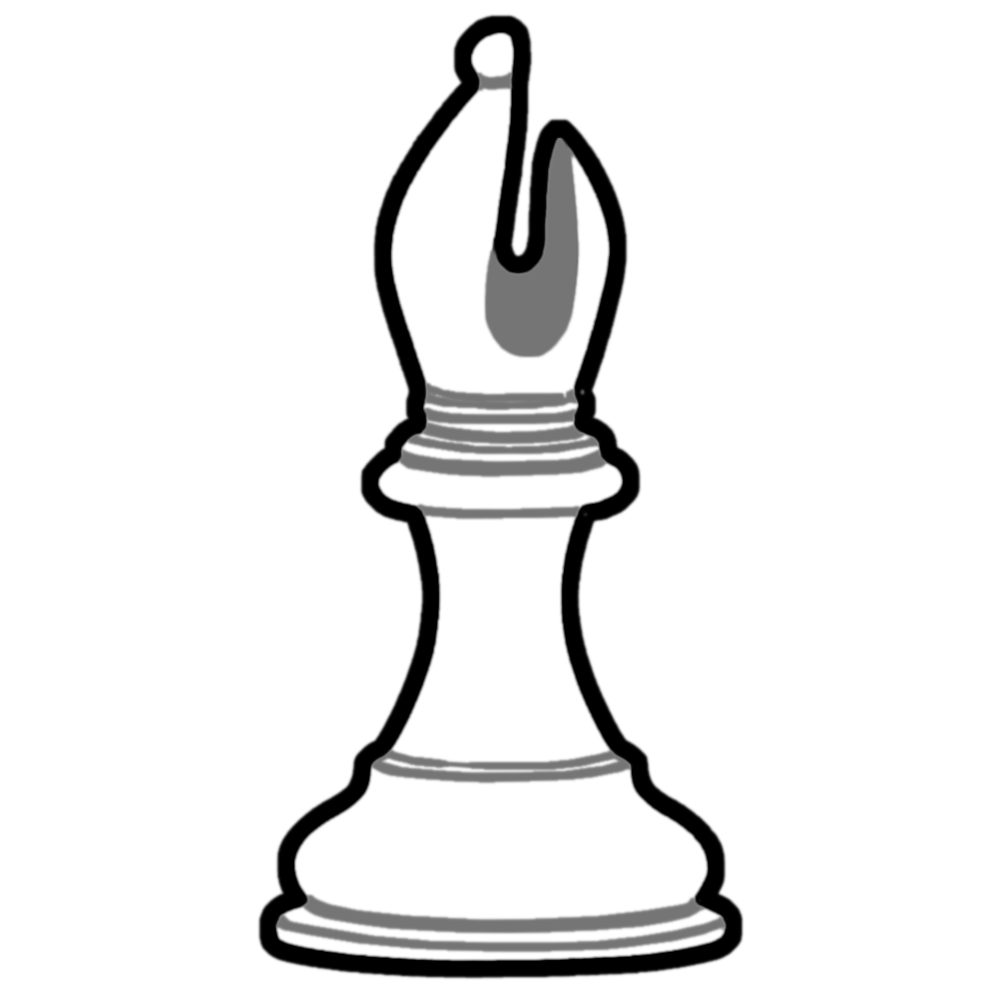
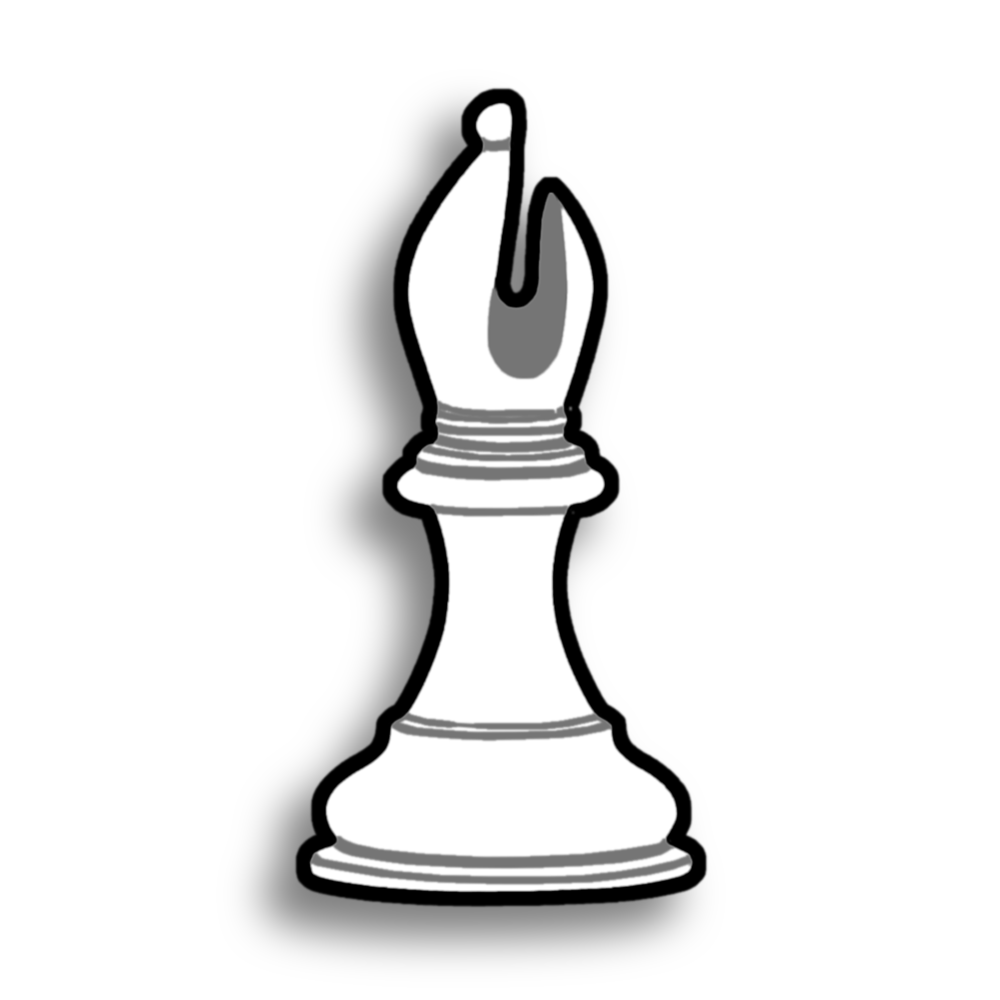
Adjust piece graphic sizes and adds drop shadows to pieces.

Changed region(s): [[0.248, 0.0, 0.744, 0.992]]

diff --git a/chess-application/mainwindow.cpp b/chess-application/mainwindow.cpp
@@ -64,7 +64,7 @@ MainWindow::~MainWindow(){
 void MainWindow::resizeEvent(QResizeEvent* event)
 {
    QMainWindow::resizeEvent(event);
-   updateCoordinateFontSize();
+   updateFontSizes();
 }
 
 void MainWindow::initiatePiecesGraphically(){
@@ -219,22 +219,14 @@ void MainWindow::initiateUIComponents(){
     _main_grid_layout->setColumnStretch(BOARD_GRID_COL, 100);
     _main_grid_layout->setRowStretch(BOARD_GRID_ROW, 100);
 
-    _info_label = new QLabel();
-    QFont f( "Arial", 15);
-    _info_label->setFont(f);
-    _info_label->setStyleSheet("color: rgb(255, 0, 0)");
-    _main_grid_layout->addWidget(_info_label, 0, 1);
+    setLeftLayout();
+    setRightLayout();
+    _main_grid_layout->addWidget(_board_aspect_ratio_widget, BOARD_GRID_ROW, BOARD_GRID_COL);
+    initiateBoardSquaresUI();
+    initiatePiecesGraphically();
+}
 
-    _fen_label = new QLabel();
-    _fen_label->setFont(f);
-    _fen_label->setTextInteractionFlags(Qt::TextSelectableByMouse);
-    _main_grid_layout->addWidget(_fen_label, 2, 1);
-
-    _copy_fen = new QPushButton(this);
-    _copy_fen->setText("Copy FEN");
-    connect(_copy_fen, SIGNAL(clicked()), this, SLOT(copyFENToClipboard()));
-    _main_grid_layout->addWidget(_copy_fen, 3, 1);
-
+void MainWindow::setLeftLayout(){
     _set_white_button = new QPushButton(this);
     _set_white_button->setText("Play as white");
     connect(_set_white_button, SIGNAL(clicked()), this, SLOT(setPlayerWhite()));
@@ -245,13 +237,22 @@ void MainWindow::initiateUIComponents(){
     _set_black_button->setText("Play as black");
     connect(_set_black_button, SIGNAL(clicked()), this, SLOT(setPlayerBlack()));
     _main_grid_layout->addWidget(_set_black_button, 2, 3);
+}
 
+void MainWindow::setRightLayout(){
+    _info_label = new QLabel();
+    _info_label->setFont(_graphics_info._info_font);
+    _main_grid_layout->addWidget(_info_label, 0, 1);
 
-    _main_grid_layout->addWidget(_board_aspect_ratio_widget, BOARD_GRID_ROW, BOARD_GRID_COL);
+    _fen_label = new QLabel();
+    _fen_label->setFont(_graphics_info._fen_font);
+    _fen_label->setTextInteractionFlags(Qt::TextSelectableByMouse);
+    _main_grid_layout->addWidget(_fen_label, 2, 1);
 
-    initiateBoardSquaresUI();
-
-    initiatePiecesGraphically();
+    _copy_fen = new QPushButton(this);
+    _copy_fen->setText("Copy FEN");
+    connect(_copy_fen, SIGNAL(clicked()), this, SLOT(copyFENToClipboard()));
+    _main_grid_layout->addWidget(_copy_fen, 3, 1);
 }
 
 void MainWindow::setInfoMessage(QString message){
@@ -746,7 +747,7 @@ void MainWindow::connectSquareToSignals(SquareWidget *square){
 }
 
 void MainWindow::addCoordinateWidgets(){
-    updateCoordinateFontSize();
+    updateFontSizes();
     for (int i = 1; i < 9; i++){
         if (_user_is_white){
             QLabel *number1 = new QLabel(QString::number(abs(9-i)) + " ");
@@ -787,15 +788,28 @@ void MainWindow::addCoordinateWidgets(){
     }
 }
 
-void MainWindow::updateCoordinateFontSize(){
+void MainWindow::updateFontSizes(){
     int boardSize = std::min(_board_aspect_ratio_widget->size().width(), _board_aspect_ratio_widget->size().height());
     float scaleFactor = float(boardSize) / SMALLEST_BOARD_SIZE;
+
     if (int(scaleFactor*HEADER_FONT_SIZE) == 0)
         _graphics_info._header_font.setPointSize(START_HEADER_FONT_SIZE);
     else
         _graphics_info._header_font.setPointSize(int(scaleFactor*HEADER_FONT_SIZE));
     for (auto label: _board_header_labels)
         label->setFont(_graphics_info._header_font);
+
+    if (int(scaleFactor*FEN_FONT_SIZE) == 0)
+        _graphics_info._fen_font.setPointSize(START_FEN_FONT_SIZE);
+    else
+        _graphics_info._fen_font.setPointSize(int(scaleFactor*FEN_FONT_SIZE));
+    _fen_label->setFont(_graphics_info._fen_font);
+
+    if (int(scaleFactor*INFO_FONT_SIZE) == 0)
+        _graphics_info._fen_font.setPointSize(START_INFO_FONT_SIZE);
+    else
+        _graphics_info._fen_font.setPointSize(int(scaleFactor*INFO_FONT_SIZE));
+    _fen_label->setFont(_graphics_info._fen_font);
 }
 
 void MainWindow::clearBoardUI(){

diff --git a/chess-application/graphicsinfo.h b/chess-application/graphicsinfo.h
@@ -4,6 +4,12 @@
 #define HEADER_FONT_SIZE 12
 #define START_HEADER_FONT_SIZE 21
 
+#define FEN_FONT_SIZE 5
+#define START_FEN_FONT_SIZE 8
+
+#define INFO_FONT_SIZE 8
+#define START_INFO_FONT_SIZE 12
+
 #include <QPixmap>
 #include <QFileInfo>
 #include <QDebug>
@@ -42,6 +48,8 @@ public:
     QPixmap _black_pawn;
 
     QFont _header_font;
+    QFont _fen_font;
+    QFont _info_font;
 
 private:
 

diff --git a/chess-application/mainwindow.h b/chess-application/mainwindow.h
@@ -51,7 +51,7 @@ public:
 
     QPixmap setPixmapFromType(QString type);
 
-    void updateCoordinateFontSize();
+    void updateFontSizes();
 
     void resizeEvent(QResizeEvent* event);
 
@@ -70,6 +70,8 @@ public:
     void doNotHightlightCheck();
 
     void promotedPawnSelection();
+    void setLeftLayout();
+    void setRightLayout();
 signals:
     void on_set_white_button_clicked();
 

diff --git a/chess-application/graphicsinfo.cpp b/chess-application/graphicsinfo.cpp
@@ -38,4 +38,6 @@ void GraphicsInfo::setGraphicsFromPath(QString path){
     _black_pawn.load(graphicsPath+"black_pawn.png");
 
     _header_font = QFont("Arial", HEADER_FONT_SIZE, QFont::Bold);
+    _fen_font = QFont("Arial", FEN_FONT_SIZE);
+    _info_font = QFont("Arial", INFO_FONT_SIZE, QFont::Cursive);
 }
